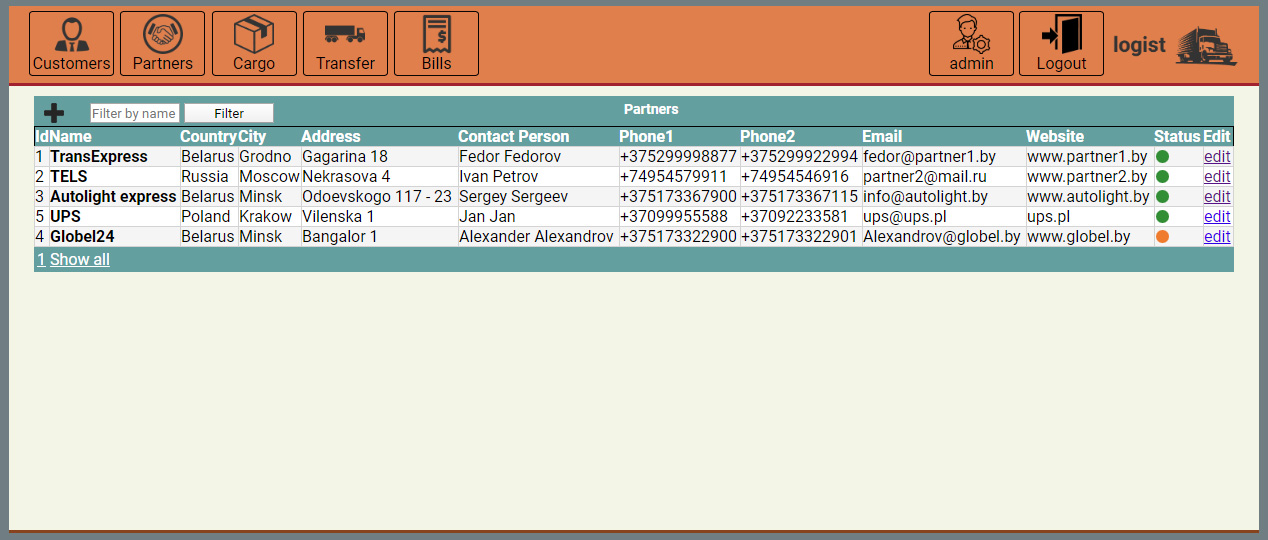
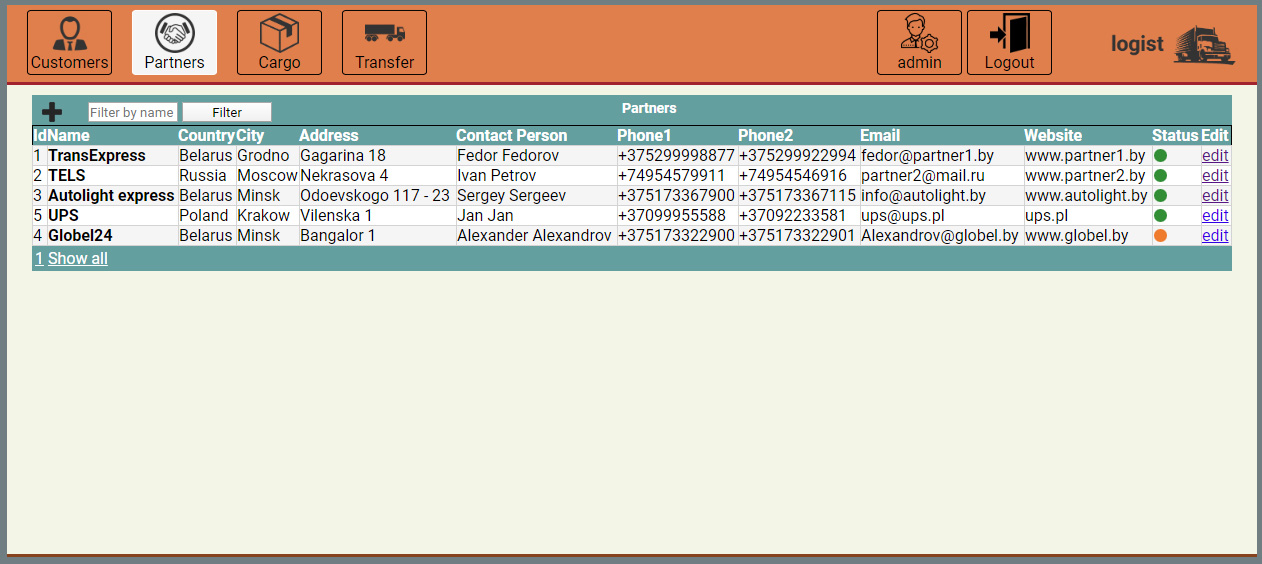
fix: edit screenshot, css

Changed region(s): [[0.0, 0.0, 1.0, 1.0]]

diff --git a/src/main/webapp/resources/css/style.css b/src/main/webapp/resources/css/style.css
@@ -41,7 +41,7 @@ header {
 .menu_wrapper {
     position: relative;
     margin-left: 20px;
-    width: 450px;
+    width: 400px;
     display: flex;
     justify-content: space-between;
     margin-right: 450px;
